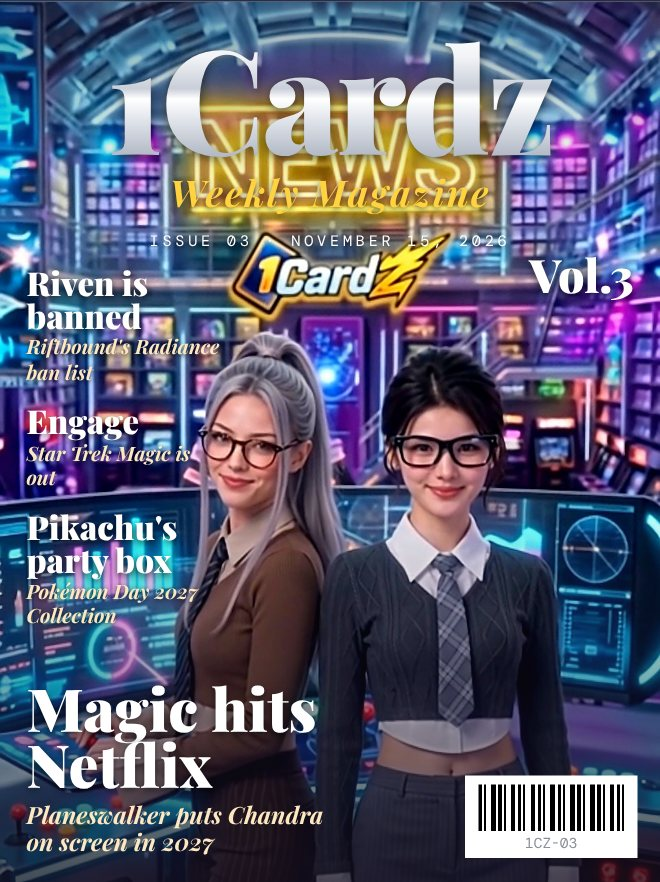
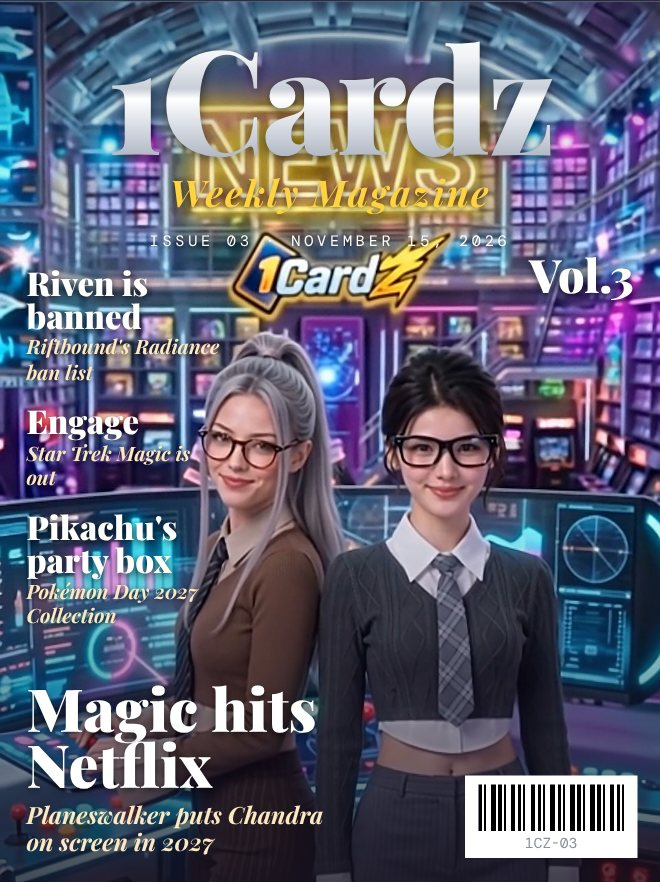
Magazine Vol.3 cover: remove the colour grade (sharpening kept)
Claude-Session: https://claude.ai/code/session_0169K2LSnHADmAJzupXMycBN

diff --git a/newsletter.html b/newsletter.html
@@ -1360,7 +1360,7 @@ body>header .cover .top-cover{z-index:0}
   <div class="mz-book" id="mzBook" aria-live="polite"></div>
   <div class="mz-ctl"><button type="button" class="mz-prev" aria-label="Previous page">‹</button><span class="mz-no"></span><button type="button" class="mz-next" aria-label="Next page">›</button></div>
   <template id="mzCover"><div class="mz-page mz-cover" role="img" aria-label="Magazine cover: Magic hits Netflix">
-  <div class="ph"><img src="img/nl-cover-vol3.jpg" alt="" loading="lazy"></div>
+  <div class="ph"><img src="img/nl-cover-vol3-s.jpg" alt="" loading="lazy"></div>
   <div class="mhd"><div class="mast" aria-label="1Cardz"><span class="sh">1Cardz</span><span class="sv">1Cardz</span><span class="ho" aria-hidden="true">1Cardz</span></div>
   <div class="wm">Weekly Magazine</div></div>
   <div class="vol" style="top:38cqw;right:4cqw">Vol.3</div>

diff --git a/mag/issue-03.html b/mag/issue-03.html
@@ -1,5 +1,5 @@
 <template id="mzCover"><div class="mz-page mz-cover" role="img" aria-label="Magazine cover: Magic hits Netflix">
-  <div class="ph"><img src="img/nl-cover-vol3.jpg" alt="" loading="lazy"></div>
+  <div class="ph"><img src="img/nl-cover-vol3-s.jpg" alt="" loading="lazy"></div>
   <div class="mhd"><div class="mast" aria-label="1Cardz"><span class="sh">1Cardz</span><span class="sv">1Cardz</span><span class="ho" aria-hidden="true">1Cardz</span></div>
   <div class="wm">Weekly Magazine</div></div>
   <div class="vol" style="top:38cqw;right:4cqw">Vol.3</div>
